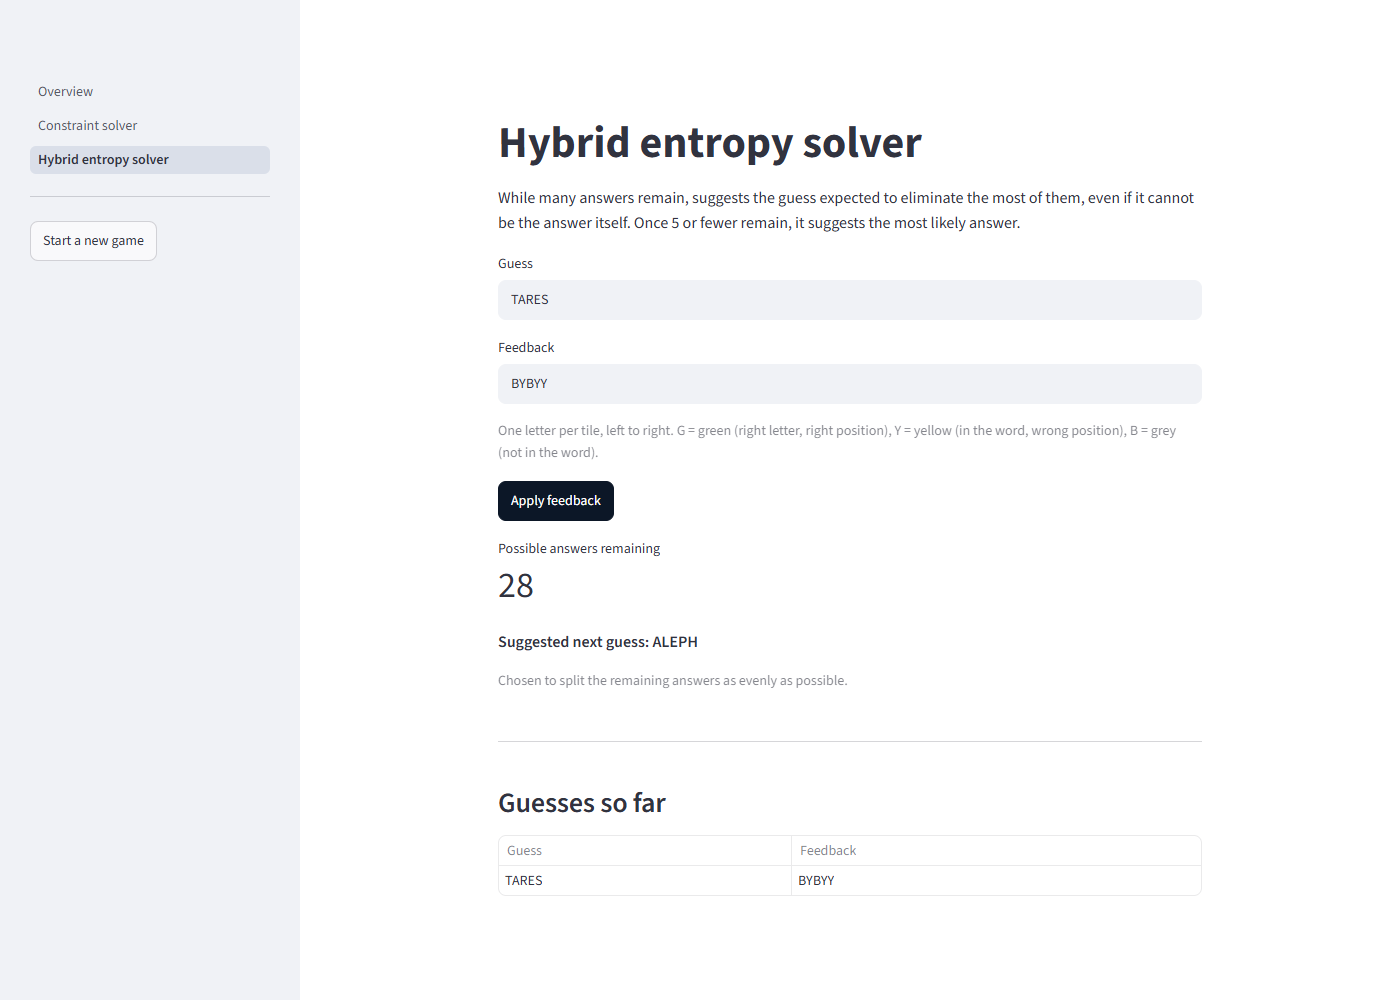
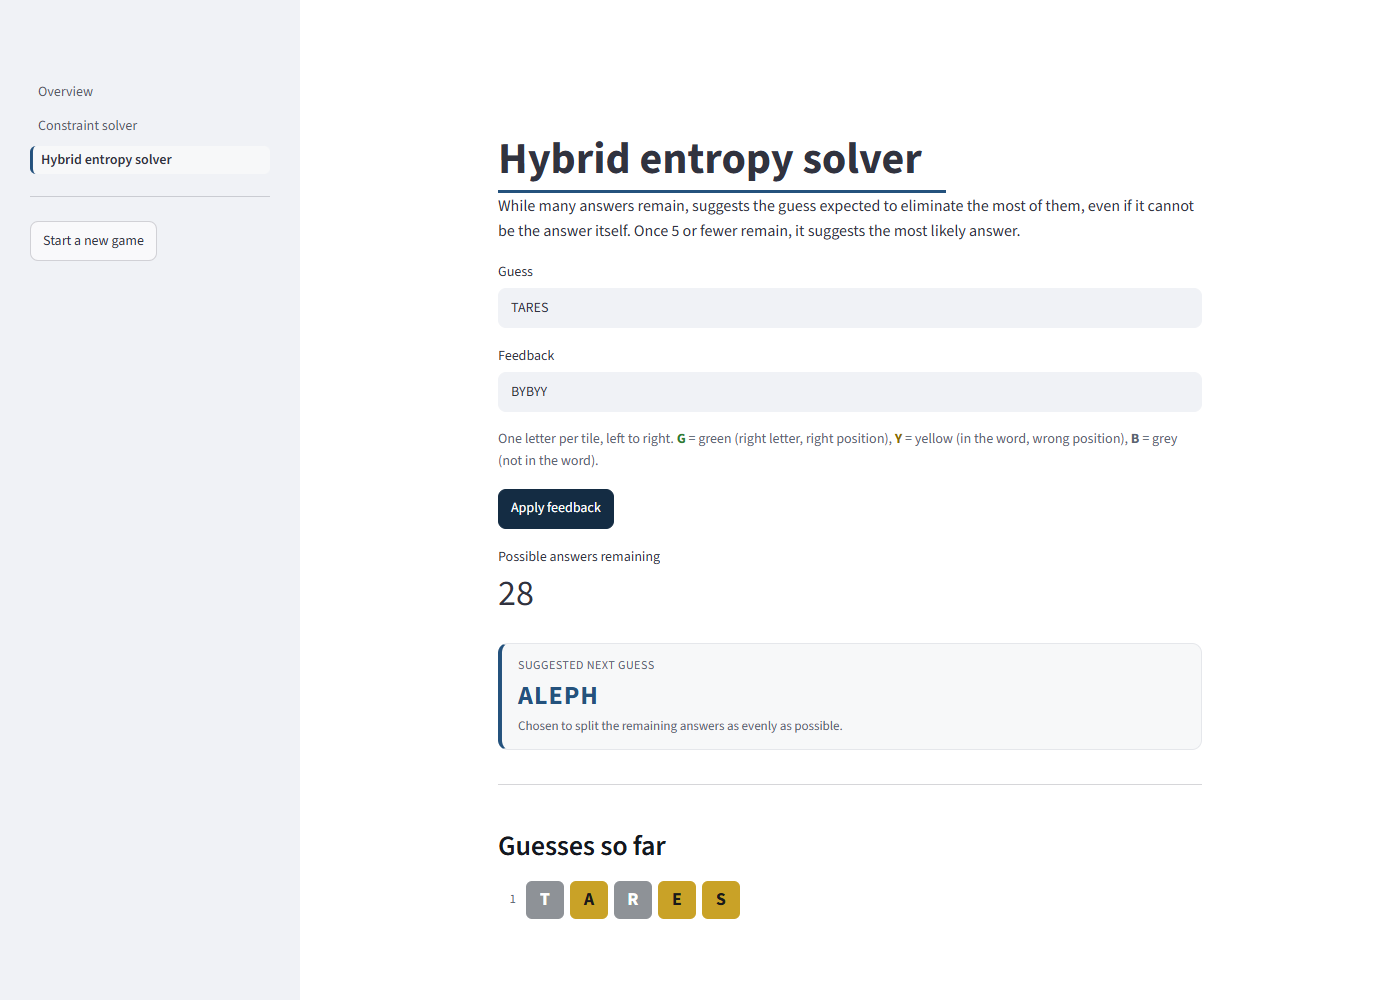
Colour the interface: feedback tiles, table accents, a result callout (#5)
* Colour the interface: feedback tiles, table accents, a result callout

The app explained Wordle's colours in monochrome text and showed the guess
history as a two-column table of letter codes, so the one thing a player is
looking at - their board - appeared nowhere.

- Guess history renders as Wordle's own tiles, and the overview carries a
  worked example. Green and grey tiles take white letters; amber takes dark
  ones, because white on amber is about 2:1.
- G, Y and B appear in their own colours wherever they are explained.
- Tables get an accent header rule, hairline rows and alternating bands.
- The suggested guess sits in a bordered callout instead of a bold line.
- The title carries an accent rule, the active page an accent border, and
  Streamlit's red-to-yellow top bar is recoloured to the app's navy.

Colours live in wordle_solver/app/theme.py. Screenshots refreshed.

* Restore the blank line ruff format expects after removing a constant

diff --git a/wordle_solver/app/theme.py b/wordle_solver/app/theme.py
@@ -1,0 +1,157 @@
+"""Visual theme: page styling, feedback tiles, and the colour legend.
+
+Colour carries meaning here rather than decorating the page. The three feedback
+colours are Wordle's own, so a tile on screen matches the tile the player saw,
+and the letters G, Y and B are shown in those colours wherever they are
+explained. Everything else is one navy accent on a white page.
+
+Tile colours are the saturated versions. Green and grey carry white letters;
+the amber tile carries dark ones, because white on amber is about 2:1 and hard
+to read. The inline text versions are darker again so they stay legible on a
+white background, where the bright green would only reach 3:1.
+"""
+
+from __future__ import annotations
+
+import html
+
+import streamlit as st
+
+ACCENT = "#24527d"
+
+TILE = {"G": "#5f9e58", "Y": "#c9a227", "B": "#8e9297"}
+TEXT = {"G": "#2f7d32", "Y": "#8a6a00", "B": "#5b6472"}
+NAMES = {"G": "green", "Y": "yellow", "B": "grey"}
+
+_CSS = f"""
+<style>
+:root {{
+  --accent: {ACCENT};
+  --ink: #14181f;
+  --muted: #5b6472;
+  --surface: #f7f8f9;
+  --hairline: #e5e7eb;
+}}
+
+/* Streamlit's own red-to-yellow bar sits above every page; make it ours. */
+[data-testid="stDecoration"] {{
+  background: linear-gradient(90deg, var(--accent), #33668f);
+}}
+
+/* A rule under the page title: the whole page's colour, in one place. */
+.stMain h1 {{
+  padding-bottom: 0.3rem;
+  border-bottom: 3px solid var(--accent);
+  display: inline-block;
+}}
+
+.stMain h2, .stMain h3 {{ color: var(--ink); }}
+
+/* Tables: an accent header and hairline rows, so a table reads as a unit
+   instead of floating text. */
+[data-testid="stTable"] table {{
+  border-collapse: separate;
+  border-spacing: 0;
+  border: 1px solid var(--hairline);
+  border-radius: 10px;
+  overflow: hidden;
+}}
+[data-testid="stTable"] thead th {{
+  background: var(--surface);
+  color: var(--muted);
+  font-size: 12px;
+  letter-spacing: 0.04em;
+  text-transform: uppercase;
+  border-bottom: 2px solid var(--accent);
+}}
+[data-testid="stTable"] tbody tr:nth-child(even) {{ background: #fbfcfd; }}
+[data-testid="stTable"] tbody td {{ border-bottom: 1px solid var(--hairline); }}
+[data-testid="stTable"] tbody tr:last-child td {{ border-bottom: none; }}
+
+/* The active page in the sidebar, in the accent rather than plain grey. */
+[data-testid="stSidebarNav"] a[aria-current="page"] {{
+  border-left: 3px solid var(--accent);
+  background: var(--surface);
+}}
+
+/* Feedback tiles. */
+.tile-row {{ display: flex; gap: 6px; margin: 2px 0; }}
+.tile {{
+  width: 38px; height: 38px;
+  display: flex; align-items: center; justify-content: center;
+  border-radius: 6px;
+  color: #ffffff;
+  font-weight: 700;
+  font-size: 18px;
+  letter-spacing: 0.02em;
+}}
+.tile-turn {{
+  width: 22px; color: var(--muted); font-size: 13px;
+  display: flex; align-items: center; justify-content: flex-end;
+  padding-right: 4px;
+}}
+.legend-key {{ font-weight: 700; }}
+
+/* A result worth looking at, rather than another line of bold text. */
+.callout {{
+  border: 1px solid var(--hairline);
+  border-left: 4px solid var(--accent);
+  border-radius: 10px;
+  background: var(--surface);
+  padding: 12px 16px;
+  margin: 6px 0 2px;
+}}
+.callout-label {{
+  font-size: 12px; text-transform: uppercase; letter-spacing: 0.04em;
+  color: var(--muted);
+}}
+.callout-value {{
+  font-size: 26px; font-weight: 700; color: var(--accent); letter-spacing: 0.04em;
+}}
+.callout-note {{ font-size: 13px; color: var(--muted); }}
+</style>
+"""
+
+
+def inject() -> None:
+    """Apply the page styling. Safe to call on every rerun."""
+    st.markdown(_CSS, unsafe_allow_html=True)
+
+
+def tiles(guess: str, feedback: str, turn: int | None = None) -> str:
+    """One row of coloured tiles for a guess and the feedback it got."""
+    cells = []
+    if turn is not None:
+        cells.append(f'<div class="tile-turn">{turn}</div>')
+    for letter, code in zip(guess.upper(), feedback.upper(), strict=False):
+        colour = TILE.get(code, TILE["B"])
+        ink = "#1a1a1a" if code == "Y" else "#ffffff"
+        cells.append(
+            f'<div class="tile" style="background:{colour};color:{ink}" '
+            f'title="{html.escape(NAMES.get(code, "grey"))}">{html.escape(letter)}</div>'
+        )
+    return f'<div class="tile-row">{"".join(cells)}</div>'
+
+
+def key(code: str) -> str:
+    """The letter G, Y or B in the colour it stands for."""
+    return f'<span class="legend-key" style="color:{TEXT[code]}">{code}</span>'
+
+
+def feedback_help() -> str:
+    """The input legend, with each letter in its own colour."""
+    return (
+        "One letter per tile, left to right. "
+        f"{key('G')} = green (right letter, right position), "
+        f"{key('Y')} = yellow (in the word, wrong position), "
+        f"{key('B')} = grey (not in the word)."
+    )
+
+
+def callout(label: str, value: str, note: str = "") -> str:
+    """A bordered result block: the next guess, not just another bold line."""
+    note_html = f'<div class="callout-note">{html.escape(note)}</div>' if note else ""
+    return (
+        f'<div class="callout"><div class="callout-label">{html.escape(label)}</div>'
+        f'<div class="callout-value">{html.escape(value)}</div>{note_html}</div>'
+    )

diff --git a/wordle_solver/app/pages.py b/wordle_solver/app/pages.py
@@ -8,17 +8,11 @@ import pandas as pd
 import streamlit as st
 
 from wordle_solver import config
+from wordle_solver.app import theme
 from wordle_solver.app.session import GameSession, InvalidMoveError
 from wordle_solver.wordlists import WordListError, WordLists, load_word_lists
 
 logger = logging.getLogger(__name__)
-
-FEEDBACK_HELP = (
-    "One letter per tile, left to right. "
-    "G = green (right letter, right position), "
-    "Y = yellow (in the word, wrong position), "
-    "B = grey (not in the word)."
-)
 
 
 @st.cache_data
@@ -48,7 +42,10 @@ def _inputs(session: GameSession, key: str) -> None:
         st.rerun()
     guess = st.text_input("Guess", key=f"{key}_guess", placeholder="e.g. CRANE", max_chars=5)
     fb = st.text_input("Feedback", key=f"{key}_fb", placeholder="e.g. BYBBG", max_chars=5)
-    st.caption(FEEDBACK_HELP)
+    st.markdown(
+        f'<p style="color:#5b6472;font-size:14px">{theme.feedback_help()}</p>',
+        unsafe_allow_html=True,
+    )
     if st.button("Apply feedback", key=f"{key}_analyze", type="primary"):
         try:
             session.apply(guess, fb)
@@ -78,15 +75,19 @@ def _history(session: GameSession) -> None:
     st.divider()
     st.subheader("Guesses so far")
     if session.history:
-        table = pd.DataFrame(session.history, columns=["Guess", "Feedback"])
-        table.index = range(1, len(table) + 1)
-        table.index.name = "Turn"
-        st.table(table)
+        # Tiles rather than a two-column table: this is what the player is
+        # looking at on their own board, so it should look the same here.
+        rows = "".join(
+            theme.tiles(guess, feedback, turn)
+            for turn, (guess, feedback) in enumerate(session.history, start=1)
+        )
+        st.markdown(rows, unsafe_allow_html=True)
     else:
         st.write("No guesses yet. Enter your first guess and the feedback Wordle gave you.")
 
 
 def render_overview_page() -> None:
+    theme.inject()
     st.title("Wordle Solver")
     st.write(
         "Suggests the next Wordle guess from the feedback you have so far, using one of "
@@ -112,12 +113,17 @@ def render_overview_page() -> None:
         "1. Choose a solver from the sidebar.\n"
         "2. Enter the word you guessed in Wordle.\n"
         "3. Enter the colours Wordle showed, as five letters: "
-        "**G** for green, **Y** for yellow, **B** for grey.\n"
-        "4. The solver narrows the possible answers and suggests your next guess."
+        f"{theme.key('G')} for green, {theme.key('Y')} for yellow, "
+        f"{theme.key('B')} for grey.\n"
+        "4. The solver narrows the possible answers and suggests your next guess.",
+        unsafe_allow_html=True,
     )
+    st.caption("A worked example: TARES against a word containing A and E, elsewhere.")
+    st.markdown(theme.tiles("TARES", "BYBYY"), unsafe_allow_html=True)
 
 
 def render_csp_page() -> None:
+    theme.inject()
     st.title("Constraint solver")
     st.write(
         "Keeps only the answers consistent with every piece of feedback, then ranks them "
@@ -136,6 +142,7 @@ def render_csp_page() -> None:
 
 
 def render_entropy_page() -> None:
+    theme.inject()
     st.title("Hybrid entropy solver")
     st.write(
         "While many answers remain, suggests the guess expected to eliminate the most of them, "
@@ -154,6 +161,8 @@ def render_entropy_page() -> None:
                 if method == "entropy"
                 else "the most likely remaining answer"
             )
-            st.markdown(f"**Suggested next guess: {word}**")
-            st.caption(reason.capitalize() + ".")
+            st.markdown(
+                theme.callout("Suggested next guess", word, reason.capitalize() + "."),
+                unsafe_allow_html=True,
+            )
     _history(session)

diff --git a/README.md b/README.md
@@ -59,7 +59,7 @@ That same feedback function is used during evaluation, so the solver is tested a
 
 The Streamlit app has three pages: an overview comparing the two methods, the constraint solver, and the hybrid entropy solver.
 
-On either solver page, enter a five-letter guess and the resulting `G/Y/B` pattern. The app keeps the candidate state, shows the number of remaining solutions, suggests the next guess, and records the guess history.
+On either solver page, enter a five-letter guess and the resulting `G/Y/B` pattern. The app keeps the candidate state, shows the number of remaining solutions, suggests the next guess, and replays the guess history as the tiles you saw on your own board.
 
 <p align="center">
   <img src="docs/screenshots/wordle_csp.png" alt="Constraint solver with 7 possible answers ranked" width="49%">
